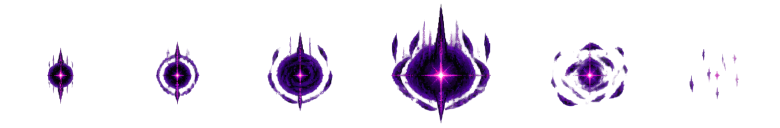
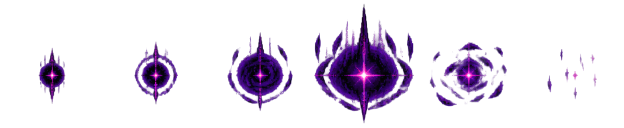
Void Scribe polish (owner): VS VFX frames are centred on their content (build-vfx recenter) so the cast, the ground decal and the blast land on the same spot (the orb sat ~40 px left); placement heights aligned; basic attacks fire a round void orb instead of the chain strip; the phantom no longer fl

diff --git a/src/skills/voidScribe.js b/src/skills/voidScribe.js
@@ -143,7 +143,7 @@ export const VoidScribe = {
   drawScript(p, g, s, fresh) {
     const def = SCRIPTS[s.effect];
     if (s.fx) s.fx.life = 0;
-    if (fresh) g.vfx.sprite('vs_glyph', s.x, s.y - 24, 0, { scale: 0.8, life: 0.4, glow: 0.5 });
+    if (fresh) g.vfx.sprite('vs_glyph', s.x, s.y - 36, 0, { scale: 0.8, life: 0.4, glow: 0.5 });
     s.fx = g.vfx.sprite('vs_rewrite', s.x, s.y, 0, { scale: s.r / 48, life: s.t, frame: 3, glow: 0.3, alpha: 0.55, ground: true, squash: 0.55 });
     g.vfx.ring(s.x, s.y, 6, s.r, { life: 0.35, color: def.color, width: 2 });
     g.vfx.text(s.x, s.y - 44, def.label, { color: `rgb(${def.color})`, size: 9 });
@@ -178,9 +178,9 @@ export const VoidScribe = {
   basic(p, g, a, step) {
     const cls = p.cls;
     const defs = [
-      { dur: 0.32, at: 0.12, anim: 'atk1', power: 0.8, speed: 460, scale: 0.45 },
-      { dur: 0.32, at: 0.12, anim: 'atk2', power: 0.85, speed: 460, scale: 0.45 },
-      { dur: 0.44, at: 0.18, anim: 'atk3', power: 1.15, speed: 520, scale: 0.6, rot: true },
+      { dur: 0.32, at: 0.12, anim: 'atk1', power: 0.8, speed: 460, scale: 0.4, frames: [0, 1] },
+      { dur: 0.32, at: 0.12, anim: 'atk2', power: 0.85, speed: 460, scale: 0.4, frames: [0, 1] },
+      { dur: 0.44, at: 0.18, anim: 'atk3', power: 1.15, speed: 520, scale: 0.55, frames: [1, 2], rot: true }, // a round void orb (the chain strip looked odd as a bolt)
     ];
     const d = defs[step];
     return {
@@ -190,7 +190,7 @@ export const VoidScribe = {
         const ox = p.x + Math.cos(a) * 16, oy = p.y - 18 + Math.sin(a) * 16;
         g.combat.projectiles.fire({
           x: ox, y: oy, vx: Math.cos(a) * d.speed, vy: Math.sin(a) * d.speed, r: step === 2 ? 9 : 6, life: 0.6,
-          team: TEAM.PLAYER, owner: p, kind: 'sprite', sprite: 'vs_chain', frames: [2, 3], fps: 14, scale: d.scale,
+          team: TEAM.PLAYER, owner: p, kind: 'sprite', sprite: 'vs_null', frames: d.frames, fps: 12, scale: d.scale,
           power: d.power, type: 'void', knock: step === 2 ? 110 : 40, stagger: 6 + step * 6, hitStop: 0.03, shake: 0.05, color: C, trail: true,
           powerFor: (t) => d.power * cls.endlessMult(p, t),
           onHit: (t) => { if (d.rot) cls.rot(p, g, t); },
@@ -255,7 +255,7 @@ export const VoidScribe = {
             const s = g.summons.create(p, 'void_phantom', pt.x, pt.y);
             if (!s) return;
             g.audio.sfx('shrine');
-            g.vfx.sprite('vs_phantom', pt.x, pt.y - 34, 0, { scale: 0.8, life: 0.5, glow: 0.5 });
+            g.vfx.sprite('vs_phantom', pt.x, pt.y - 35, 0, { scale: 0.55, life: 0.5, glow: 0.5 }); // same size / spot as the drawn summon
             g.vfx.text(pt.x, pt.y - 76, 'VOID PHANTOM', { color: PALE, size: 9 });
           }]],
         };
@@ -323,11 +323,11 @@ export const VoidScribe = {
           },
           events: [[0.4, () => {
             p.nullZone = { x: pt.x, y: pt.y, r: N.r, t: N.dur, pulse: 0 };
-            g.vfx.sprite('vs_null', pt.x, pt.y - 30, 0, { scale: 2.4, life: 0.6, glow: 0.6 });
+            g.vfx.sprite('vs_null', pt.x, pt.y - 12, 0, { scale: 2.4, life: 0.6, glow: 0.6 });
             p.nullZone.fx = g.vfx.sprite('vs_orb', pt.x, pt.y, 0, { scale: N.r / 70, life: N.dur, frame: 3, glow: 0.3, alpha: 0.5, ground: true, squash: 0.55 });
             g.vfx.text(pt.x, pt.y - 110, 'FINAL SCRIPT: NULL', { color: PALE, size: 14, life: 1.2 });
             const s = g.summons.create(p, 'void_phantom', pt.x + rand(-30, 30), pt.y + rand(-20, 20)); // PHANTOM INCREASE
-            if (s) g.vfx.sprite('vs_phantom', s.x, s.y - 34, 0, { scale: 0.8, life: 0.5, glow: 0.5 });
+            if (s) g.vfx.sprite('vs_phantom', s.x, s.y - 35, 0, { scale: 0.55, life: 0.5, glow: 0.5 });
             g.events.emit('zoneCreated', { owner: p, kind: 'null', x: pt.x, y: pt.y, radius: N.r, duration: N.dur });
           }]],
         };
@@ -346,7 +346,7 @@ export const VoidScribe = {
         name: 'void_seal', dur: 0.45, anim: 'voidSeal', moveMul: 0.2, ang: a, cancelAt: 0.3,
         events: [[0.2, () => {
           g.audio.sfx('constellation');
-          g.vfx.sprite('vs_orb', pt.x, pt.y - 20, 0, { scale: 1.1, life: 0.45, glow: 0.6 });
+          g.vfx.sprite('vs_orb', pt.x, pt.y - 12, 0, { scale: 1.1, life: 0.45, glow: 0.6 });
           g.vfx.ring(pt.x, pt.y, 10, S.r, { life: 0.35, color: PINK, width: 3 });
           let n = 0;
           for (const t of foes(g)) {
@@ -418,7 +418,7 @@ export const VoidScribe = {
     const cls = p.cls, N = cls.nullRule;
     g.camera.punch(0.25); g.camera.shake(0.5);
     g.vfx.flash('120,40,200', 0.4, 2.5);
-    g.vfx.sprite('vs_null', z.x, z.y - 30, 0, { scale: 3, life: 0.5, glow: 0.7 });
+    g.vfx.sprite('vs_null', z.x, z.y - 12, 0, { scale: 3, life: 0.5, glow: 0.7 });
     g.vfx.ring(z.x, z.y, 20, z.r, { life: 0.45, width: 5, color: CR, fill: true });
     g.vfx.text(z.x, z.y - 110, 'NULL', { color: '#ffffff', size: 16, life: 1.2 });
     g.audio.sfx('ult_slash');

diff --git a/src/render/renderer.js b/src/render/renderer.js
@@ -263,14 +263,18 @@ export class Renderer {
     const fade = Math.min(1, s.t / 0.25, (s.duration - s.t) / 0.5);
     // summon data visual.sprite = { key, frame, scale, lift }: a floating frame of a VFX strip instead of the owner's body
     if (vis.sprite && Assets.vfx[vis.sprite.key]) {
+      // one steady frame (no flicker); while it acts it leans toward its facing and glows up smoothly
       const v = vis.sprite, d = Assets.vfx[v.key], sc = v.scale || 1, bob = Math.sin(game.time * 3 + s.id) * 2;
-      const w = d.fw * sc, h = d.fh * sc, fr = s.anim ? Math.min(d.frames - 1, (v.frame ?? 3) + (Math.floor(s.animT * 12) % 2)) : (v.frame ?? 3);
+      const w = d.fw * sc, h = d.fh * sc, fr = v.frame ?? 3;
+      const act = s.anim ? Math.sin(Math.min(1, s.animT / (s.animDur || 0.3)) * Math.PI) : 0; // 0 -> 1 -> 0 over the action
+      const dx = Math.cos(s.facing || 0) * 8 * act, dy = Math.sin(s.facing || 0) * 4 * act;
+      const x = s.x - w / 2 + dx, y = s.y - h + (v.lift ?? 0.1) * h + bob + dy;
       ctx.fillStyle = `rgba(0,0,0,${0.25 * fade})`;
       ctx.beginPath(); ctx.ellipse(s.x, s.y, 11, 4, 0, 0, TAU); ctx.fill();
       ctx.globalAlpha = (vis.alpha ?? 0.85) * fade;
-      ctx.drawImage(d.img, fr * d.fw, 0, d.fw, d.fh, s.x - w / 2, s.y - h + (v.lift ?? 0.1) * h + bob, w, h);
-      ctx.globalCompositeOperation = 'lighter'; ctx.globalAlpha = (vis.glow ?? 0.3) * fade * (0.8 + 0.2 * Math.sin(game.time * 9));
-      ctx.drawImage(d.img, fr * d.fw, 0, d.fw, d.fh, s.x - w / 2, s.y - h + (v.lift ?? 0.1) * h + bob, w, h);
+      ctx.drawImage(d.img, fr * d.fw, 0, d.fw, d.fh, x, y, w, h);
+      ctx.globalCompositeOperation = 'lighter'; ctx.globalAlpha = Math.min(1, (vis.glow ?? 0.3) * fade * (0.9 + 0.1 * Math.sin(game.time * 2.5 + s.id) + act * 1.2));
+      ctx.drawImage(d.img, fr * d.fw, 0, d.fw, d.fh, x, y, w, h);
       ctx.globalCompositeOperation = 'source-over'; ctx.globalAlpha = 1;
       return;
     }

diff --git a/tools/build-vfx.js b/tools/build-vfx.js
@@ -84,6 +84,9 @@ const SETS = {
     names: { SK1: 'vs_glyph', SK2: 'vs_sigil', SK3: 'vs_phantom', SK4: 'vs_rewrite', SK5: 'vs_chain', SK6: 'vs_orb', SK7: 'vs_null' },
     rows: { SK1: 0, SK2: 0, SK3: 0, SK4: 0, SK5: 2, SK6: 0, SK7: 0 },
     mirrorFrames: { SK5: [0, 1, 2, 3, 4, 5] }, // the chain head was drawn on the left: flip it so it leads to the right
+    // the frames drift inside their cells (the orb sat at 27% of the width): centre each frame on its content so the
+    // cast, the ground decal and the blast land on the same spot
+    recenter: { SK1: true, SK2: true, SK3: true, SK4: true, SK6: true, SK7: true },
   },
   aw: {
     src: 'desgin/VFX/AW/AW', detectRows: true, clean: true,
